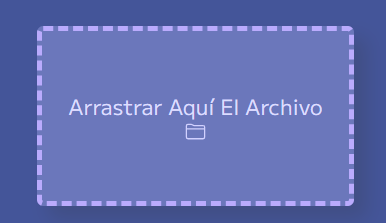
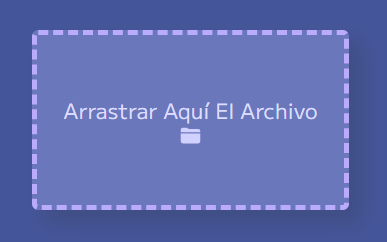
filereader

Changed region(s): [[0.0622, 0.1076, 0.9326, 0.9417], [0.1554, 0.4036, 0.8394, 0.6457]]

diff --git a/index.html b/index.html
@@ -45,25 +45,29 @@
             <input type="color" id="color">
          </div>
         <div class="div2">
-          <p>Color de Visualizacion del Archivo: </p>
+          <p>Visualizacion del Archivo: </p>
           <input type="color" id="color">
-          <img src="">
+          <img src="./img/salida.png">
         </div>
         <div class="div3">
-          <p>Background-color: </p>
+          <p>Zona de Arrastre de Archivo: </p>
           <input type="color" id="color">
+          <img src="./img/arrastrar-ar.png">
         </div>
         <div class="div4">
-          <p>Background-color: </p>
+          <p>Columna de Archivos Abiertos: </p>
           <input type="color" id="color">
+          <img src="./img/ar-abierto.png">
         </div>
         <div class="div5">
-          <p>Background-color: </p>
+          <p>Archivos abiertos: </p>
           <input type="color" id="color">
+          <img src="./img/ar-abierto-archivo1.png">
         </div>
         <div class="div6">
-          <p>Background-color: </p>
+          <p>Archivo abierto y Mostrandose: </p>
           <input type="color" id="color">
+          <img src="./img/ar-abierto-archivo2.png">
         </div>
        </div>
       </div>

diff --git a/css/temas.css b/css/temas.css
@@ -33,19 +33,6 @@
   display: flex;
   gap: 1em;
 }
-.contenidoTema::-webkit-scrollbar {
-  width: 10px;
-}
-
-.contenidoTema::-webkit-scrollbar-track {
-  border-radius: 7px;
-  background: #333;
-}
-
-.contenidoTema::-webkit-scrollbar-thumb {
-  background-color: #555;
-  border-radius: 20px;
-}
 
 .contenidoTema {
   width: 60%;
@@ -67,16 +54,13 @@
   font-size: 2em;
   cursor: pointer;
 }
-
 .parent {
-  margin: 30px;
   display: grid;
   grid-template-columns: repeat(3, 1fr);
   grid-template-rows: repeat(2, 1fr);
   grid-column-gap: 30px;
   grid-row-gap: 30px;
 }
-
 .div1 {
   grid-area: 1 / 1 / 2 / 2;
 }
@@ -94,4 +78,29 @@
 }
 .div6 {
   grid-area: 2 / 3 / 3 / 4;
+}
+.parent img{
+
+  margin: .7em;
+  object-fit: cover;
+}
+.parent div {
+  display: flex;
+  flex-direction: column;
+  align-items: center;
+  justify-content: center;
+}
+
+.contenidoTema::-webkit-scrollbar {
+  width: 10px;
+}
+
+.contenidoTema::-webkit-scrollbar-track {
+  border-radius: 7px;
+  background: #333;
+}
+
+.contenidoTema::-webkit-scrollbar-thumb {
+  background-color: #555;
+  border-radius: 20px;
 }
